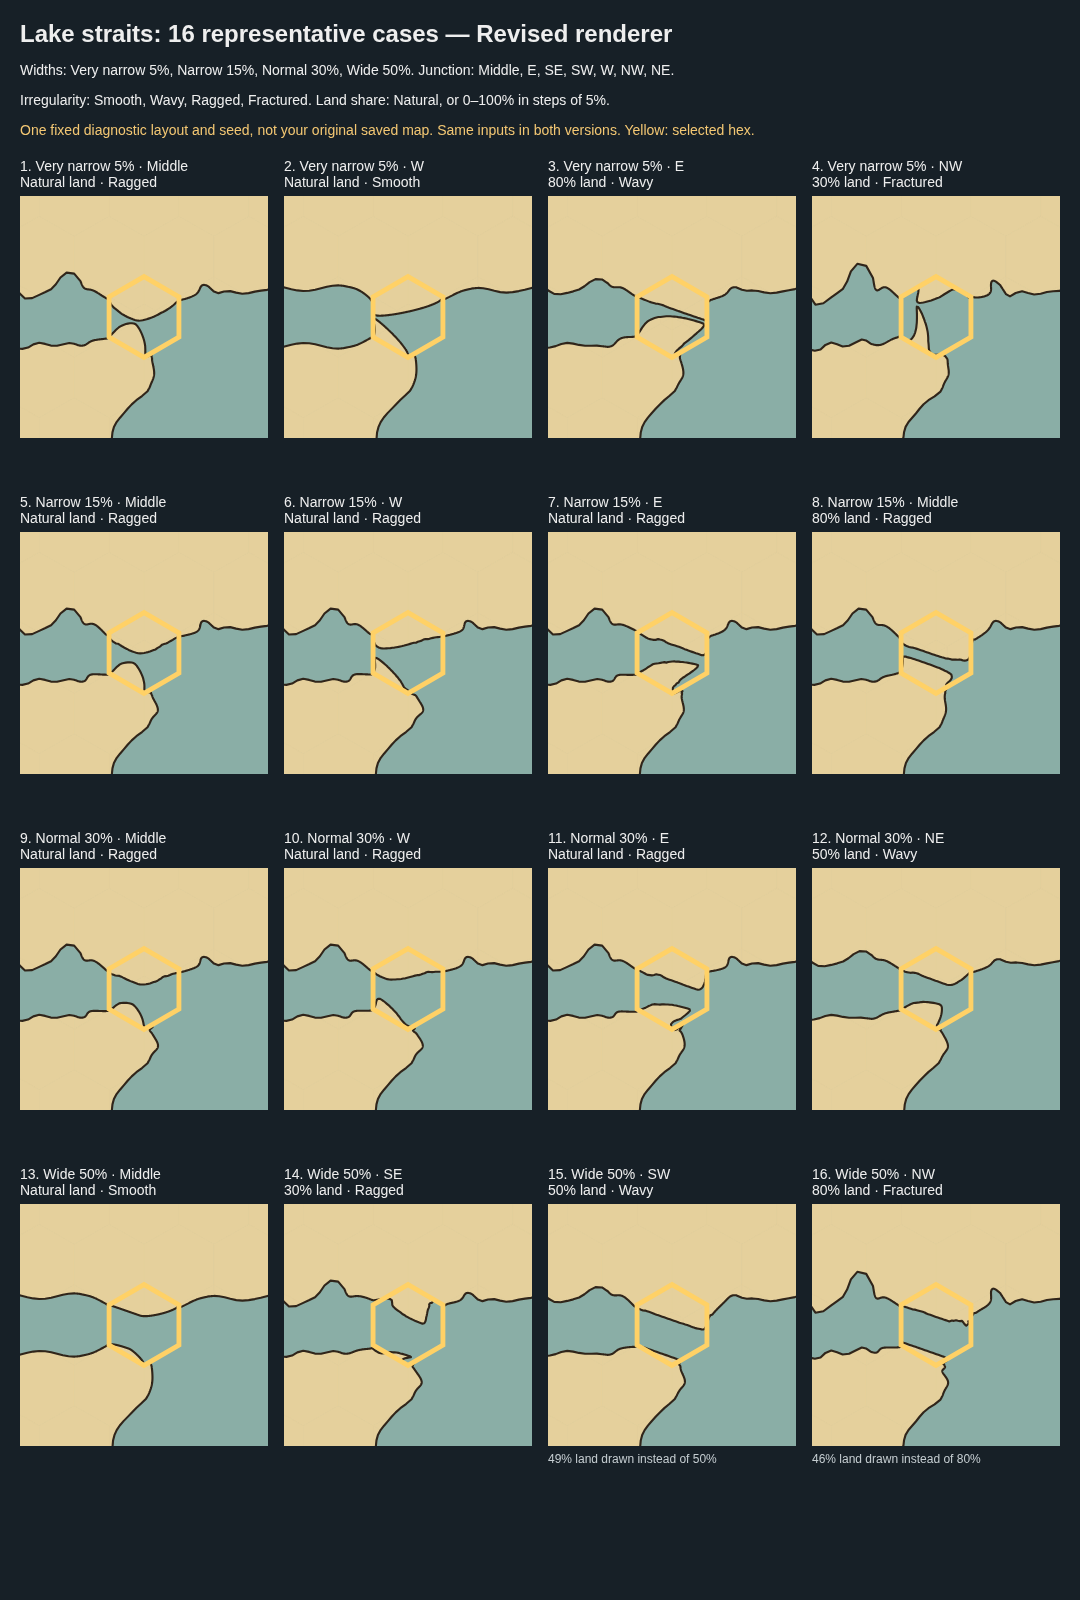
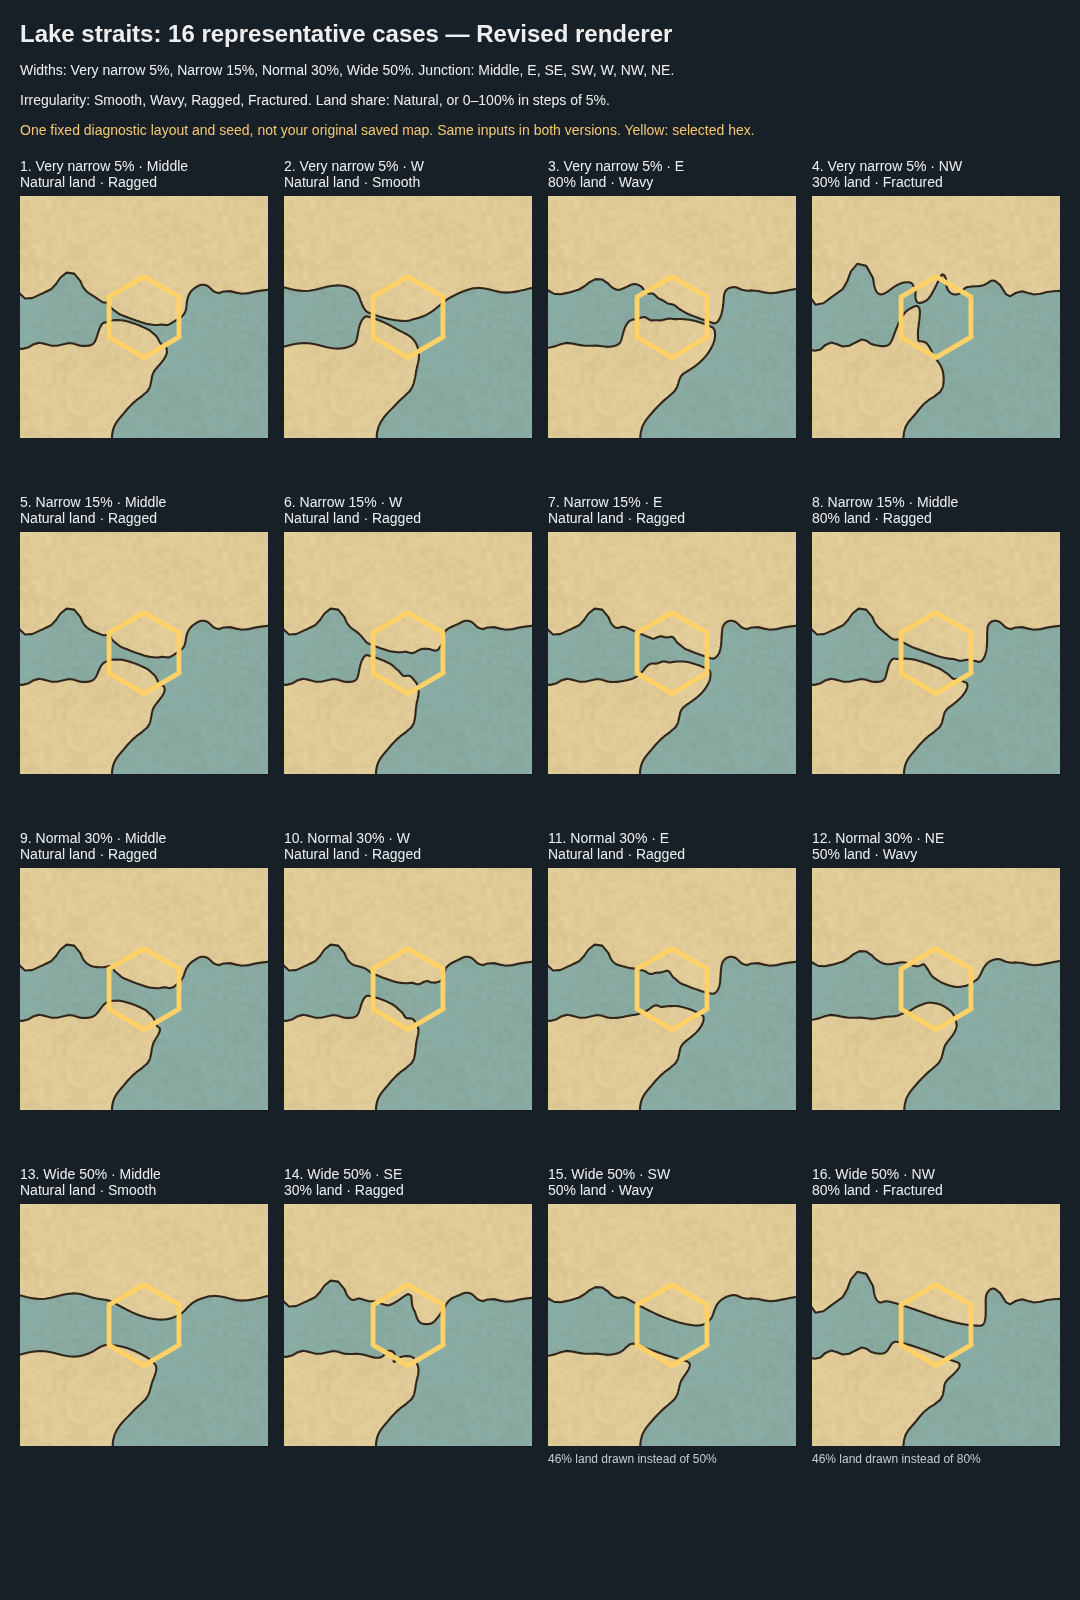
Blend lake strait corridors into the existing natural shore

diff --git a/src/render/lakeShoreField.ts b/src/render/lakeShoreField.ts
@@ -1,0 +1,192 @@
+import type { Point } from '../../shared/hex.js';
+import type { PathCmd } from './prims.js';
+import { pathPolylines } from './ice.js';
+import { evenOddTest } from './coast.js';
+import { areaCoverage } from './footprint.js';
+import { localLakeShore } from './lakePassage.js';
+/** Local shoreline controls, in scene coordinates. */
+export interface LakeShorePassage {
+  centre: Point;
+  junction: Point;
+  normal: Point;
+  rootEdges: Array<[Point, Point]>;
+  mouths: Point[];
+  width: number;
+  outline: Point[];
+  land: number | null;
+  ink: number;
+  rough: number;
+  phase: number[];
+}
+const distance = (a: Point, b: Point) => Math.hypot(a.x - b.x, a.y - b.y);
+const segmentDistance = (p: Point, a: Point, b: Point) => {
+  const x = b.x - a.x, y = b.y - a.y, t = Math.max(0, Math.min(1, ((p.x - a.x) * x + (p.y - a.y) * y) / (x * x + y * y || 1)));
+  return Math.hypot(p.x - a.x - x * t, p.y - a.y - y * t);
+};
+const smoothMin = (a: number, b: number, k: number) => Math.min(a, b) - Math.max(0, k - Math.abs(a - b)) ** 2 / (4 * k);
+/** Blend a curved, flaring passage into the existing lake's signed shore field. */
+export function lakeShoreFields(original: PathCmd[], passages: LakeShorePassage[], size: number): PathCmd[] {
+  let path = original;
+  for (const spec of passages) {
+    const rings = pathPolylines(path, 12), water = evenOddTest(rings, size / 8), cell = size / 4, reach = size * .7;
+    const buckets = new Map<string, Array<[Point, Point]>>();
+    for (const ring of rings)
+      for (let k = 1; k < ring.length; k++) {
+        const a = ring[k - 1]!, b = ring[k]!;
+        for (let x = Math.floor((Math.min(a.x, b.x) - reach) / cell); x <= Math.floor((Math.max(a.x, b.x) + reach) / cell); x++)
+          for (let y = Math.floor((Math.min(a.y, b.y) - reach) / cell); y <= Math.floor((Math.max(a.y, b.y) + reach) / cell); y++) {
+            const key = `${x},${y}`, list = buckets.get(key);
+            if (list)
+              list.push([a, b]);
+            else
+              buckets.set(key, [[a, b]]);
+          }
+      }
+    const oldField = (p: Point) => {
+      let d = reach;
+      for (const [a, b] of buckets.get(`${Math.floor(p.x / cell)},${Math.floor(p.y / cell)}`) ?? [])
+        d = Math.min(d, segmentDistance(p, a, b));
+      return water(p) ? d : -d;
+    };
+    // Curve through the two water mouths with a level tangent at the throat.
+    const tangent = { x: spec.normal.y, y: -spec.normal.x };
+    const projected = spec.mouths.map(p => {
+      const u = (p.x - spec.junction.x) * tangent.x + (p.y - spec.junction.y) * tangent.y;
+      return { u: Math.sign(u) * Math.max(Math.abs(u), size * .8), v: (p.x - spec.junction.x) * spec.normal.x + (p.y - spec.junction.y) * spec.normal.y };
+    });
+    const a = projected[0]!, b = projected[1]!;
+    let c3 = (a.v / (a.u * a.u) - b.v / (b.u * b.u)) / (a.u - b.u), c2 = a.v / (a.u * a.u) - c3 * a.u;
+    const steep = Math.max(...Array.from({ length: 21 }, (_, k) => { const u = (k / 10 - 1) * size; return Math.abs(2 * c2 * u + 3 * c3 * u * u); }));
+    if (steep > .3) {
+      c2 *= .3 / steep;
+      c3 *= .3 / steep;
+    }
+    const noise = (u: number, side: number) => {
+      const off = side > 0 ? 0 : 3, x = u / size;
+      return .6 * Math.sin(x * 4.1 + spec.phase[off]!) + .27 * Math.sin(x * 10.3 + spec.phase[off + 1]!) + .13 * Math.sin(x * 21.7 + spec.phase[off + 2]!);
+    };
+    // Sample only the local edit. The old signed distance field keeps existing
+    // coves and headlands as influence fades towards the surrounding lake.
+    const step = size / 50, pad = size * 1.9, n = Math.ceil(pad * 2 / step) + 1, x0 = spec.centre.x - pad, y0 = spec.centre.y - pad;
+    const nodes = Array.from({ length: n * n }, (_, i) => {
+      const p = { x: x0 + (i % n) * step, y: y0 + Math.floor(i / n) * step };
+      const u = (p.x - spec.junction.x) * tangent.x + (p.y - spec.junction.y) * tangent.y;
+      const v = (p.x - spec.junction.x) * spec.normal.x + (p.y - spec.junction.y) * spec.normal.y;
+      const limited = Math.max(-size * 1.25, Math.min(size * 1.25, u));
+      const curve = c2 * limited * limited + c3 * limited ** 3, prime = 2 * c2 * limited + 3 * c3 * limited * limited;
+      const centre = curve + (u - limited) * prime;
+      const d = distance(p, spec.centre) / size;
+      const t = Math.max(0, Math.min(1, (1.5 - d) / (spec.land !== null && spec.land > .65 ? .45 : .5)));
+      const j = Math.max(0, Math.min(1, (1.9 - distance(p, spec.junction) / size) / 1.35));
+      const blend = t * t * (3 - 2 * t) * (spec.land !== null && spec.land > .65 ? 1 : j * j * (3 - 2 * j));
+      let root = Infinity;
+      for (const [aa, bb] of spec.rootEdges) {
+        const pin = { x: (aa.x + bb.x) / 2, y: (aa.y + bb.y) / 2 }, end = { x: pin.x * 2 - spec.centre.x, y: pin.y * 2 - spec.centre.y };
+        root = Math.min(root, segmentDistance(p, pin, end) - size * .1);
+      }
+      return { p, u, v, centre, prime, blend, root, old: oldField(p), edge: i % n === 0 || i % n === n - 1 || i < n || i >= n * (n - 1) };
+    });
+    const draw = (flare: number) => {
+      const values = nodes.map(node => {
+        if (node.edge)
+          return -size;
+        const growth = flare * (node.u / size) ** 2;
+        const bank = growth * Math.exp(noise(node.u, node.v - node.centre) * spec.rough * 10);
+        const half = spec.width / 2 * Math.sqrt(1 + node.prime * node.prime) + bank;
+        const channel = (half - Math.abs(node.v - node.centre)) / Math.sqrt(1 + node.prime * node.prime);
+        const shaped = smoothMin(channel, node.root, size * .07);
+        const f = node.old + (shaped - node.old) * node.blend;
+        const floor = (spec.width / 2 * Math.sqrt(1 + node.prime * node.prime) + size * .05 * (node.u / size) ** 2 - Math.abs(node.v - node.centre)) / Math.sqrt(1 + node.prime * node.prime);
+        const safe = Math.min(floor, node.root, size * 1.45 - distance(node.p, spec.centre));
+        return Math.max(f, safe, spec.width / 2 - distance(node.p, spec.junction));
+      });
+      // March triangles (rather than ambiguous four-corner squares), orienting
+      // each segment with water on the same side before assembling closed rings.
+      const key = (p: Point) => `${Math.round(p.x * 1e5)},${Math.round(p.y * 1e5)}`;
+      const segments: Array<{
+        a: Point;
+        b: Point;
+        used: boolean;
+      }> = [], from = new Map<string, number[]>();
+      const triangle = (ids: number[]) => {
+        const cut: Point[] = [];
+        let positive: Point | undefined;
+        for (let k = 0; k < 3; k++) {
+          const i = ids[k]!, j = ids[(k + 1) % 3]!, f = values[i]!, g = values[j]!, a = nodes[i]!.p, b = nodes[j]!.p;
+          if (f > 0)
+            positive = a;
+          if ((f > 0) === (g > 0))
+            continue;
+          const t = f / (f - g);
+          cut.push({ x: a.x + (b.x - a.x) * t, y: a.y + (b.y - a.y) * t });
+        }
+        if (cut.length !== 2 || !positive)
+          return;
+        let [a, b] = cut as [Point, Point];
+        if ((b.x - a.x) * (positive.y - a.y) - (b.y - a.y) * (positive.x - a.x) < 0)
+          [a, b] = [b, a];
+        if (distance(a, b) < 1e-7)
+          return;
+        const id = segments.length;
+        segments.push({ a, b, used: false });
+        const k = key(a), list = from.get(k);
+        if (list)
+          list.push(id);
+        else
+          from.set(k, [id]);
+      };
+      for (let y = 0; y < n - 1; y++)
+        for (let x = 0; x < n - 1; x++) {
+          const i = y * n + x;
+          triangle([i, i + 1, i + n + 1]);
+          triangle([i, i + n + 1, i + n]);
+        }
+      const out: Point[][] = [];
+      for (const first of segments) {
+        if (first.used)
+          continue;
+        const ring = [first.a];
+        let at = first;
+        while (!at.used) {
+          at.used = true;
+          ring.push(at.b);
+          const next = from.get(key(at.b))?.find(i => !segments[i]!.used);
+          if (next === undefined)
+            break;
+          at = segments[next]!;
+        }
+        if (ring.length > 3) {
+          if (distance(ring[0]!, ring.at(-1)!) > 1e-5)
+            ring.push(ring[0]!);
+          out.push(ring);
+        }
+      }
+      return out;
+    };
+    let flare = size * .18 + spec.width * .1, result = draw(flare);
+    // Fit area on the painted outline, including coastline ink. Flare changes
+    // the banks away from the throat without changing its requested width.
+    if (spec.land !== null) {
+      const page = [{ x: x0, y: y0 }, { x: x0 + pad * 2, y: y0 },
+        { x: x0 + pad * 2, y: y0 + pad * 2 }, { x: x0, y: y0 + pad * 2 }];
+      const area = 1.5 * Math.sqrt(3) * size * size;
+      const share = (rs: Point[][]) => areaCoverage([page, ...rs], { evenOdd: true, stroke: { rings: rs, reach: spec.ink } })(spec.outline, 96) / area;
+      let best = Math.abs(share(result) - spec.land), low = 0, high = size * 20;
+      for (let k = 0; k < 13 && best > .003; k++) {
+        const at = (low + high) / 2, trial = draw(at), shown = share(trial), miss = Math.abs(shown - spec.land);
+        if (miss < best) {
+          best = miss;
+          flare = at;
+          result = trial;
+        }
+        if (shown > spec.land)
+          low = at;
+        else
+          high = at;
+      }
+    }
+    const changed: PathCmd[] = result.flatMap(r => [...r.map((p, k): PathCmd => [k ? 'L' : 'M', p.x, p.y]), ['Z'] as PathCmd]);
+    path = localLakeShore(path, changed, [spec.centre], size);
+  }
+  return path;
+}

diff --git a/src/render/scene.ts b/src/render/scene.ts
@@ -108,6 +108,7 @@ import {
 } from './coast.js';
 import { polygonPath, type CitySymbol, type PathCmd, type Prim } from './prims.js';
 import { localLakeShore } from './lakePassage.js';
+import { lakeShoreFields } from './lakeShoreField.js';
 import { capitalCrown, cityMarker, iconClearance, iconDrop, markerExtent, symbolMarker } from './cityMarkers.js';
 import { riverStance, riverThroughIcon, showsRiver } from './riverCity.js';
 import { riverCourses, type RiverCourse } from './rivers.js';
@@ -2418,8 +2419,45 @@ function buildStaticSceneInner(map: MapState, opts: SceneOptions): Scene {
           return path;
         }),
       };
-      const passages = lake.filter(i => base?.[i] === 'Strait' || base?.[i] === 'Isthmus').map(i => hexCenter(i % cols, Math.floor(i / cols), size));
-      return localLakeShore(original(), drawnLand(geometry, width, height, size), passages, size);
+      const edgeRuns = (edges: number[]) => edges.filter(e => !edges.includes((e + 5) % 6)).map(e => {
+        const run = [e];
+        while (edges.includes((run.at(-1)! + 1) % 6)) run.push((run.at(-1)! + 1) % 6);
+        return run;
+      });
+      const specs = lake.flatMap(i => {
+        if (base?.[i] !== 'Strait') return [];
+        const split = terrain!.split.get(i);
+        const dry = [0, 1, 2, 3, 4, 5].filter(e => split?.sides[6 + e] === 'land');
+        if (edgeRuns(dry).length !== 2) return [];
+        const corners = hexCorners(i % cols, Math.floor(i / cols), size);
+        const centre = hexCenter(i % cols, Math.floor(i / cols), size);
+        const shape = hexShapeFor(base[i], map.hexShapes?.[String(i)]);
+        const width = (channelWidthFraction(base[i], dimensions, map.hexShapes?.[String(i)]) ?? .3) * Math.sqrt(3) * size;
+        const frame = lakeStraitFrame(corners, centre, dry, width, shape.straitJunctionSide);
+        if (!frame) return [];
+        const wet = [0, 1, 2, 3, 4, 5].filter(e => split?.sides[6 + e] === 'lake');
+        const mouths = edgeRuns(wet).map(run => {
+          const mid = (run.length - 1) / 2;
+          if (!Number.isInteger(mid)) return corners[run[Math.ceil(mid)]!]!;
+          const e = run[mid]!;
+          return { x: (corners[e]!.x + corners[(e + 1) % 6]!.x) / 2,
+            y: (corners[e]!.y + corners[(e + 1) % 6]!.y) / 2 };
+        });
+        if (mouths.length !== 2) return [];
+        return [{ centre, mouths, junction: frame.centre, normal: frame.normal,
+          rough: { Smooth: 0, Wavy: .04, Ragged: .07, Fractured: .12 }[shape.irregular],
+          phase: Array.from({ length: 6 }, (_, k) => unit(seed, 'lake-strait-shore', i, k) * Math.PI * 2),
+          rootEdges: dry.map(e => [corners[e]!, corners[(e + 1) % 6]!] as [Point, Point]),
+          width, outline: corners, land: channelShareSet(base[i], dimensions, map.hexShapes?.[String(i)]), ink: inkReachOf }];
+      });
+      // Keep the established coastal solver for isthmuses and junctions with
+      // more than two banks; apply the local shore field to two-bank straits.
+      const supported = new Set(specs.map(spec => `${spec.centre.x},${spec.centre.y}`));
+      const fallback = lake.filter(i => base?.[i] === 'Strait' || base?.[i] === 'Isthmus')
+        .map(i => hexCenter(i % cols, Math.floor(i / cols), size))
+        .filter(c => !supported.has(`${c.x},${c.y}`));
+      const shore = fallback.length ? localLakeShore(original(), drawnLand(geometry, width, height, size), fallback, size) : original();
+      return lakeShoreFields(shore, specs, size);
     }
     return original();
   };
@@ -2442,7 +2480,13 @@ function buildStaticSceneInner(map: MapState, opts: SceneOptions): Scene {
       }
       let miss = 0;
       for (const [h, aim] of aims) {
-        if (traced?.lakeCoast?.coverage.has(h) || (traced?.lakeCoast && passageLake(lakeBodies[lakeOf.get(h) ?? -1] ?? []))) continue;
+        if (traced?.lakeCoast) {
+          if (base?.[h] === 'Strait' || base?.[h] === 'Isthmus') continue;
+          // Retain the surrounding lake unless its own explicit control needs
+          // fitting; implicit targets must not reshape the entire lake body.
+          if (passageLake(lakeBodies[lakeOf.get(h) ?? -1] ?? []) &&
+            !(base?.[h] === 'Lake' && map.hexShapes?.[String(h)]?.land !== undefined)) continue;
+        }
         const corners = hexCorners(h % cols, Math.floor(h / cols), size);
         const length = lengths.get(h) ?? 0;
         if (length < 1e-6) continue;

diff --git a/scripts/render-lake-strait-review.ts b/scripts/render-lake-strait-review.ts
@@ -4,12 +4,14 @@ import { lakeStraitFixture, LAKE_STRAIT_CASES } from '../test/fixtures/lakeStrai
 import { buildScene, defaultVisibility } from '../src/render/scene.ts';
 import { sceneToSvg } from '../src/render/svg.ts';
 import { resolveStyle } from '../src/render/styles.ts';
-import { hexCenter } from '../shared/hex.ts';
+import { areaCoverage } from '../src/render/footprint.ts';
+import { pathPolylines } from '../src/render/ice.ts';
+import { hexCorners, hexCenter } from '../shared/hex.ts';
 import { CHANNEL_WIDTH_PERCENT } from '../shared/types.ts';
 const out = process.argv[2] ?? 'work/lake-strait-review';
 const version = process.argv[3] ?? 'Revised renderer';
 mkdirSync(out, { recursive: true });
-const style = resolveStyle({ preset: 'parchment', overrides: { water: 'flat', grain: false, grid: 'none', land: 'uniform' } });
+const style = resolveStyle({ preset: 'parchment', overrides: { grid: 'none' } });
 const sides = ['E', 'SE', 'SW', 'W', 'NW', 'NE'];
 let html = `<!doctype html><meta charset="utf-8"><title>Lake straits: 16 representative cases</title>
 <style>body{margin:20px;font:14px Arial;background:#172027;color:#eee}h1{font-size:24px;margin:0 0 10px}.grid{display:grid;grid-template-columns:repeat(4,248px);gap:16px}section{width:248px}h2{font-size:14px;min-height:32px;font-weight:500;margin:0 0 6px}svg{width:248px;height:242px;display:block}section p{font-size:12px;min-height:28px;margin:6px 0;color:#c5cdd1}.note{color:#f3c773;font-size:14px;margin-bottom:20px}</style>
@@ -26,7 +28,14 @@ for (const [index, example] of LAKE_STRAIT_CASES.entries()) {
     .replace(/viewBox="[^"]*"/, `viewBox="${c.x - 90} ${c.y - 90} 180 180"`)
     .replace(/width="[^"]*" height="[^"]*"/, 'width="248" height="242"')
     .replace(/id="([^"]*)"/g, `id="case${index}-$1"`).replace(/url\(#([^)]*)\)/g, `url(#case${index}-$1)`);
-  const note = scene.compromises?.filter(n => n.hexes.includes(24)).map(n => n.what).join('; ');
+  // Measure both versions independently: the original renderer's own
+  // compromise reports are part of the bug and cannot be used as evidence.
+  const rings = scene.prims.flatMap(p => p.kind === 'path' && p.fill === style.palette.lake ? pathPolylines(p.d, 12) : []);
+  const page = [{ x: -size, y: -size }, { x: 500, y: -size }, { x: 500, y: 500 }, { x: -size, y: 500 }];
+  const ink = Math.max(.8, size * style.palette.coastWidth * style.knobs.lineWeight) / 2;
+  const share = areaCoverage([page, ...rings], { evenOdd: true, stroke: { rings, reach: ink } })(hexCorners(3, 3, size), 192) / (1.5 * Math.sqrt(3) * size * size);
+  const note = example.land !== undefined && Math.abs(share - example.land / 100) > .01
+    ? `${Math.round(share * 100)}% land drawn instead of ${example.land}%` : '';
   html += `<section><h2>${label}<br>${detail}</h2>${svg}<p>${note ?? ''}</p></section>`;
 }
 writeFileSync(`${out}/gallery.html`, html + '</div>');

diff --git a/test/lakeStraitRendering.test.ts b/test/lakeStraitRendering.test.ts
@@ -26,15 +26,6 @@ function render(map: MapState) {
   const measure = areaCoverage(landClip, { evenOdd: true, stroke: { rings, reach: ink } });
   return { scene, rings, water, ink, share: (i = centre) => measure(hexCorners(i % cols, Math.floor(i / cols), size), 192) / hexArea };
 }
-function gapAt(draw: ReturnType<typeof render>, x: number) {
-  const c = hexCenter(3, 3, size);
-  let count = 0, ySum = 0;
-  const inHex = evenOddTest([hexCorners(3, 3, size)], size / 8);
-  for (let y = c.y - size; y <= c.y + size; y += 0.1) {
-    if (inHex({ x, y }) && draw.water({ x, y })) { count++; ySum += y; }
-  }
-  return { width: count * 0.1, y: ySum / count };
-}
 /** Measure opposing banks in the final water outline, rather than filtering pairs by arc length. */
 function throat(draw: ReturnType<typeof render>, extent = 1) {
   const c = hexCenter(3, 3, size), step = size / 70;
@@ -127,9 +118,8 @@ test('narrow lake straits retain a continuous water route after roughening and c
   }
 });
 test('lake strait widths alter the rendered constriction', () => {
-  const c = hexCenter(3, 3, size);
   const narrow = render(fixture('Narrow')), normal = render(fixture('Normal'));
-  assert.ok(gapAt(normal, c.x).width > gapAt(narrow, c.x).width + size * 0.1);
+  assert.ok(throat(normal).distance > throat(narrow).distance + size * 0.1);
   for (const [draw, fraction] of [[narrow, 0.15], [normal, 0.3]] as const) {
     const actual = throat(draw).distance, expected = fraction * Math.sqrt(3) * size;
     assert.ok(Math.abs(actual - expected) < size * 0.04, `painted shore width ${actual} must match requested ${expected}`);
@@ -154,10 +144,10 @@ test('west and east lake junction selections move the rendered passage', () => {
 test('lake strait land shares are measured on the drawn bank and unattainable shares are reported', () => {
   const low = render(fixture('Narrow', undefined, 30));
   const middle = render(fixture('Narrow', undefined, 50));
-  assert.ok(Math.abs(low.share() - 0.3) < 0.01);
-  assert.ok(Math.abs(middle.share() - 0.5) < 0.01);
+  assert.ok(Math.abs(low.share() - 0.3) < 0.01, `30% request rendered ${low.share()}`);
+  assert.ok(Math.abs(middle.share() - 0.5) < 0.01, `50% request rendered ${middle.share()}`);
   const eighty = render(fixture('Narrow', undefined, 80));
-  assert.ok(Math.abs(eighty.share() - 0.8) < 0.01, '80% must be reached at Narrow width, rather than merely getting a compromise note');
+  assert.ok(Math.abs(eighty.share() - 0.8) < 0.01, `80% request rendered ${eighty.share()}`);
   const high = render(fixture('Normal', undefined, 80));
   assert.ok(high.share() > render(fixture('Normal', undefined, 30)).share());
   const note = high.scene.compromises?.find(c => c.hexes.includes(centre));

diff --git a/docs/lake-straits-review.md b/docs/lake-straits-review.md
@@ -16,6 +16,12 @@ node --import tsx scripts/render-lake-strait-review.ts
 
 The HTML is written to `work/lake-strait-review/gallery.html`. The cases and map layout are shared with the tests in `test/fixtures/lakeStrait.ts`.
 
+The previous attempts corrected topology but constructed each bank separately, then joined those shapes back to the lake. That produced conspicuous shoulders, hooks and matching curves. The numerical checks did not judge those visual defects, and the earlier four-case comparison was inadequate.
+
+Two-bank lake straits now use a local signed distance field: a gently curving water corridor widens away from the chosen throat, each bank has independent seeded variation, and the field blends into the existing shore. Dry roots retain mainland connections. Explicit land shares adjust the flare while retaining the throat width. The edit is joined locally so distant shores keep their original shapes. Isthmuses and more complex junctions retain the coastal solver.
+
+The gallery uses the normal parchment rendering, including texture, at a fixed wider view for both versions.
+
 The 25 lake rendering checks measure the final outline and coastline ink: water continuity, opposing-bank separation, requested width in all sixteen cases, west/east throat positions, whole-outline crossings, land coverage, adjoining lake controls, map-edge closure, undo/cache stability, and preservation of distant shores. Two additional tests exercise the local shore join with one edit and overlapping edits. These are numerical regressions, not an automated judgement of natural appearance.
 
 Explicit land shares the renderer does not reach are annotated with the percentage actually painted. Such annotations describe a renderer limit, not proof that the requested geometry is impossible.
